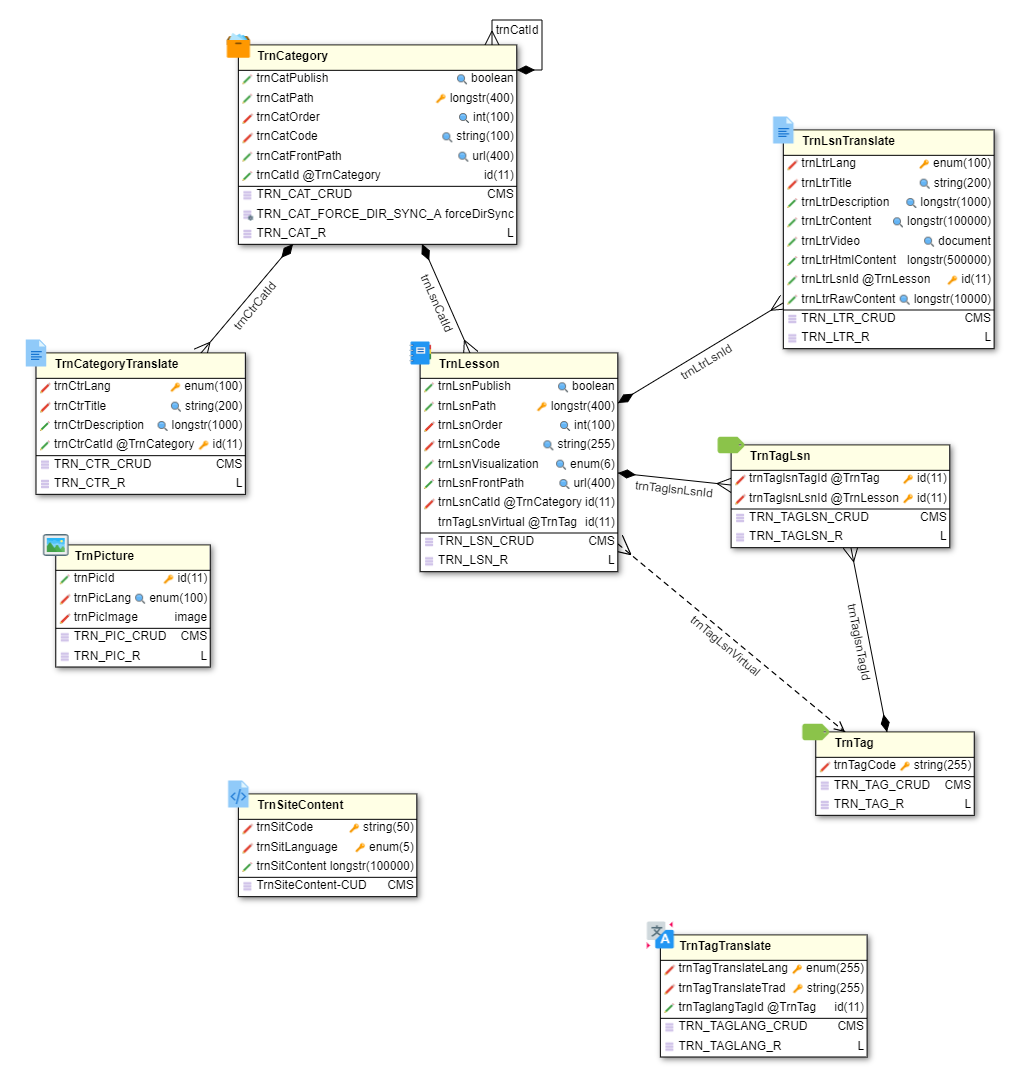
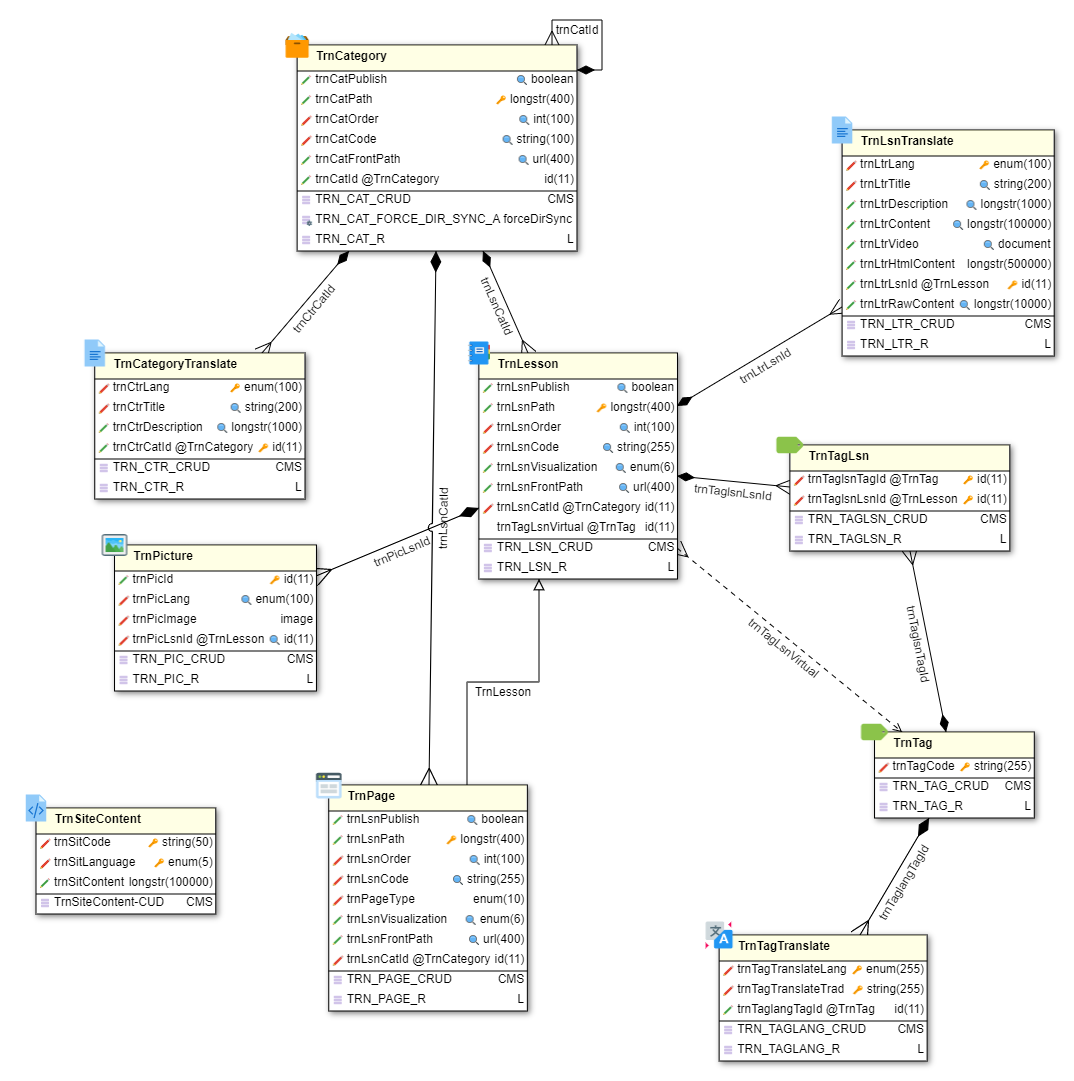
updated pages

diff --git a/resources/ObjectInternal/TrnPage/SCRIPT.js b/resources/ObjectInternal/TrnPage/SCRIPT.js
@@ -1,0 +1,50 @@
+// TrnPage front side hook
+(function(ui) {
+	if (!ui) return;
+	var app = ui.getAjax();
+	// Hook called by each object instance
+	Simplicite.UI.hooks.TrnPage = function(o, cbk) {
+		function setWiredUriTag(attribute) {
+			const elements = $(attribute).find($('div')).find($('a'));
+			console.log(elements);
+			for(const el of elements) {
+				const a = document.createElement('a');
+				a.title = el.innerText;
+				a.href = el.href.replace('ui', '') + 'page' + el.innerText;	
+				const span = document.createElement('span');
+				span.innerText = el.innerText;
+				a.appendChild(span);
+				el.parentNode.replaceChild(a, el);
+			}
+			const wiredElements = $(attribute).find($('div')).find($('a'));
+			wiredElements.on('click', function(event) {
+			event.preventDefault();
+				window.open(event.currentTarget.href);
+			});	
+		}
+		try {
+			console.log("TrnPage hooks loading...");
+			var p = o.locals.ui;
+			if (p && (o.isMainInstance() || o.isPanelInstance())) {
+				p.list.onload = function(ctn, obj, params) {
+					setWiredUriTag('[data-field="trnLsnFrontPath"]');
+				};
+				p.form.onload = function(ctn, obj, params) {
+					const btn = $('[data-action="burl_field_trnLsnFrontPath"]');
+					console.log(btn);
+					const frontPath = $('[id="field_trnLsnFrontPath"]')[0].defaultValue;
+					/*btn.addEventListener('click', function() {
+						console.log('please');
+					})*/
+				};
+			}
+			//...
+		} catch (e) {
+			app.error("Error in Simplicite.UI.hooks.TrnPage: " + e.message);
+		} finally {
+			console.log("TrnPage hooks loaded.");
+			cbk && cbk(); // final callback
+		}
+	};
+})(window.$ui);
+

diff --git a/resources/ObjectInternal/TrnPage/SCRIPT.min.js b/resources/ObjectInternal/TrnPage/SCRIPT.min.js
@@ -1,0 +1,3 @@
+(function(ui){if(!ui)return;var app=ui.getAjax();Simplicite.UI.hooks.TrnPage=function(o,cbk){function setWiredUriTag(attribute){const elements=$(attribute).find($('div')).find($('a'));console.log(elements);for(const el of elements){const a=document.createElement('a');a.title=el.innerText;a.href=el.href.replace('ui','')+'page'+el.innerText;const span=document.createElement('span');span.innerText=el.innerText;a.appendChild(span);el.parentNode.replaceChild(a,el);}
+const wiredElements=$(attribute).find($('div')).find($('a'));wiredElements.on('click',function(event){event.preventDefault();window.open(event.currentTarget.href);});}
+try{console.log("TrnPage hooks loading...");var p=o.locals.ui;if(p&&(o.isMainInstance()||o.isPanelInstance())){p.list.onload=function(ctn,obj,params){setWiredUriTag('[data-field="trnLsnFrontPath"]');};p.form.onload=function(ctn,obj,params){const btn=$('[data-action="burl_field_trnLsnFrontPath"]');console.log(btn);const frontPath=$('[id="field_trnLsnFrontPath"]')[0].defaultValue;};}}catch(e){app.error("Error in Simplicite.UI.hooks.TrnPage: "+e.message);}finally{console.log("TrnPage hooks loaded.");cbk&&cbk();}};})(window.$ui);

diff --git a/src/com/simplicite/objects/Training/TrnPage.java b/src/com/simplicite/objects/Training/TrnPage.java
@@ -10,6 +10,31 @@ import com.simplicite.commons.Training.*;
 /**
  * Business object TrnPage
  */
-public class TrnPage extends TrnObject {
+public class TrnPage extends TrnLesson {
 	private static final long serialVersionUID = 1L;
+
+	@Override
+	public List<String> postValidate() {
+		List<String> msgs = new ArrayList<>();
+		setFieldValue("trnLsnPath", getPath());
+		setFieldValue("trnLsnFrontPath", getFrontPath());	
+		ObjectDB page = getGrant().getTmpObject("TrnPage");
+		if(isNew()) {
+			synchronized(page) {
+				page.resetFilters();
+				page.setFieldFilter("trnPageType", "homepage");
+				if(page.count() >= 1)
+					msgs.add("You already have a homepage");
+			}
+		}
+		return msgs;
+	}
+
+	private String getPath() {
+		return getFieldValue("trnLsnCatId.trnCatPath")+"/"+"PAGE_"+getFieldValue("trnLsnOrder")+"_"+TrnTools.toSnake(getFieldValue("trnLsnCode"));
+	}
+
+	private String getFrontPath() {
+		return "/" + getFieldValue("trnLsnCode");
+	}
 }

diff --git a/src/com/simplicite/objects/Training/TrnLesson.java b/src/com/simplicite/objects/Training/TrnLesson.java
@@ -26,7 +26,6 @@ public class TrnLesson extends TrnObject {
 
 	@Override
 	public List<String> postValidate() {
-		boolean test = isPanelInstance();
 		if(!isSyncInstance())
 			setFieldValue("trnLsnPath", getPath());
 		

diff --git a/README.md b/README.md
@@ -31,6 +31,7 @@ The module for the Simplciité Training platform
 | `trnLsnFrontPath`                                            | url(400)                                 |          |           |          | -                                                                                |
 | `trnLsnCatId` link to **`TrnCategory`**                      | id                                       | yes      | yes       |          | -                                                                                |
 | _Ref. `trnLsnCatId.trnCatPath`_                              | _text(400)_                              |          |           |          | -                                                                                |
+| _Ref. `trnLsnCatId.trnCatCode`_                              | _char(100)_                              |          |           |          | -                                                                                |
 
 ### Lists
 
